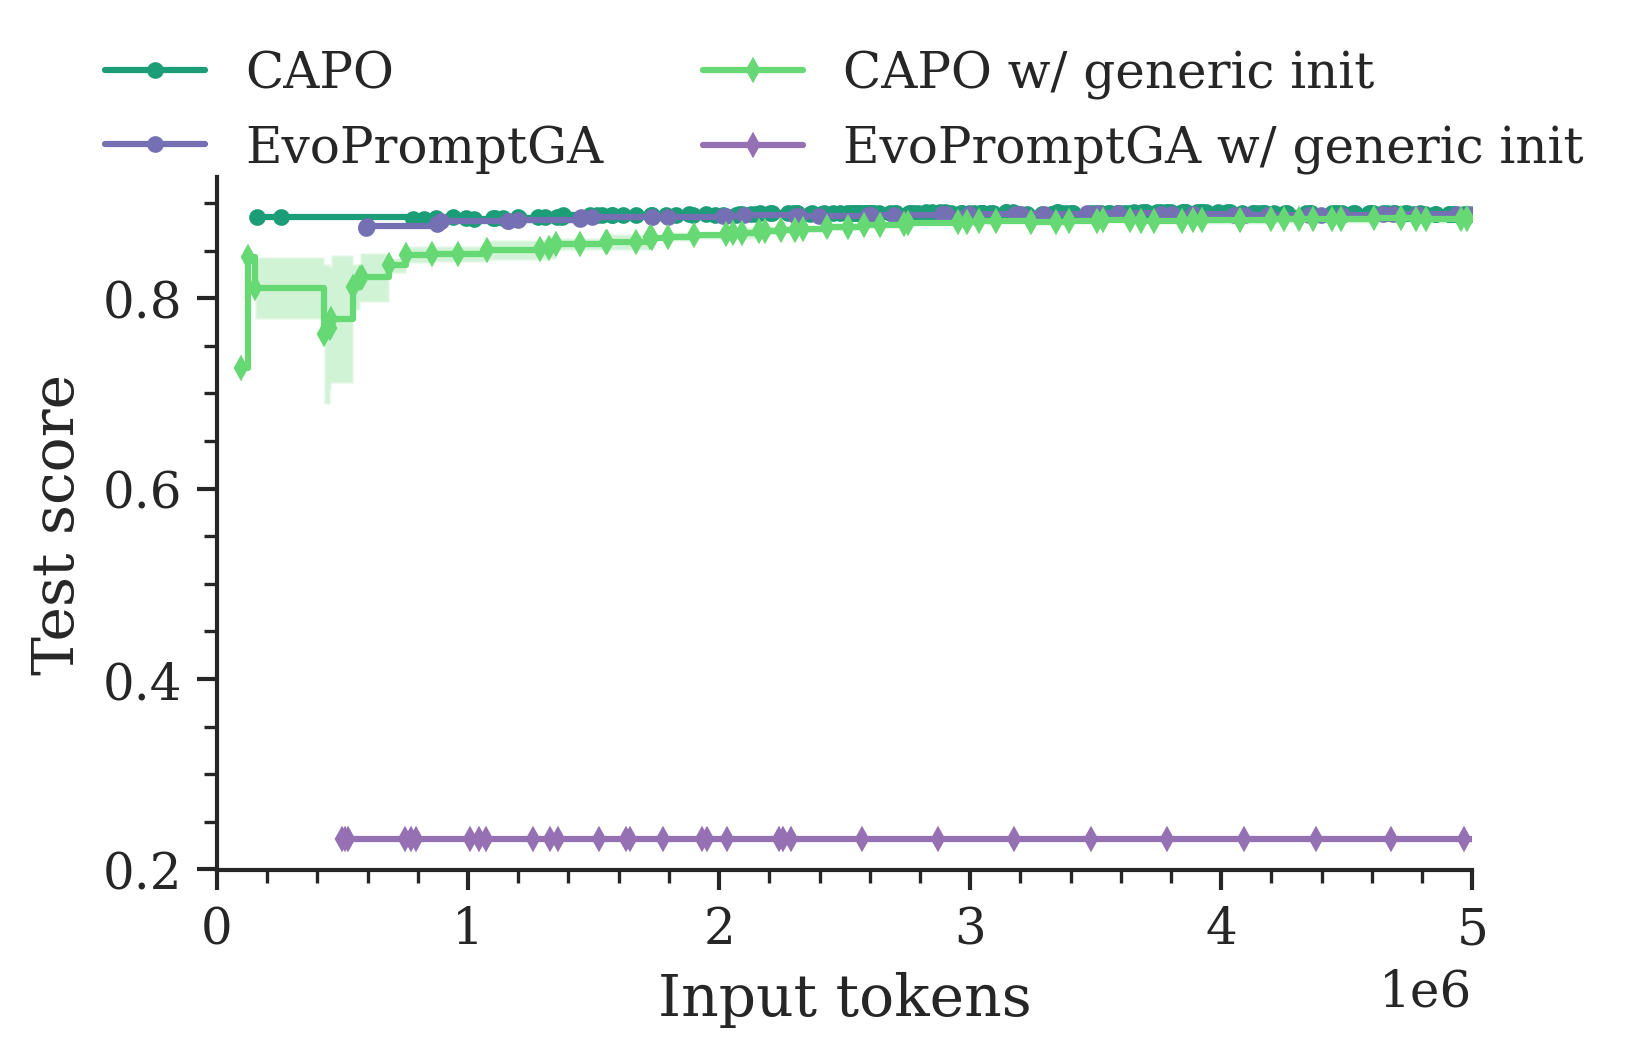
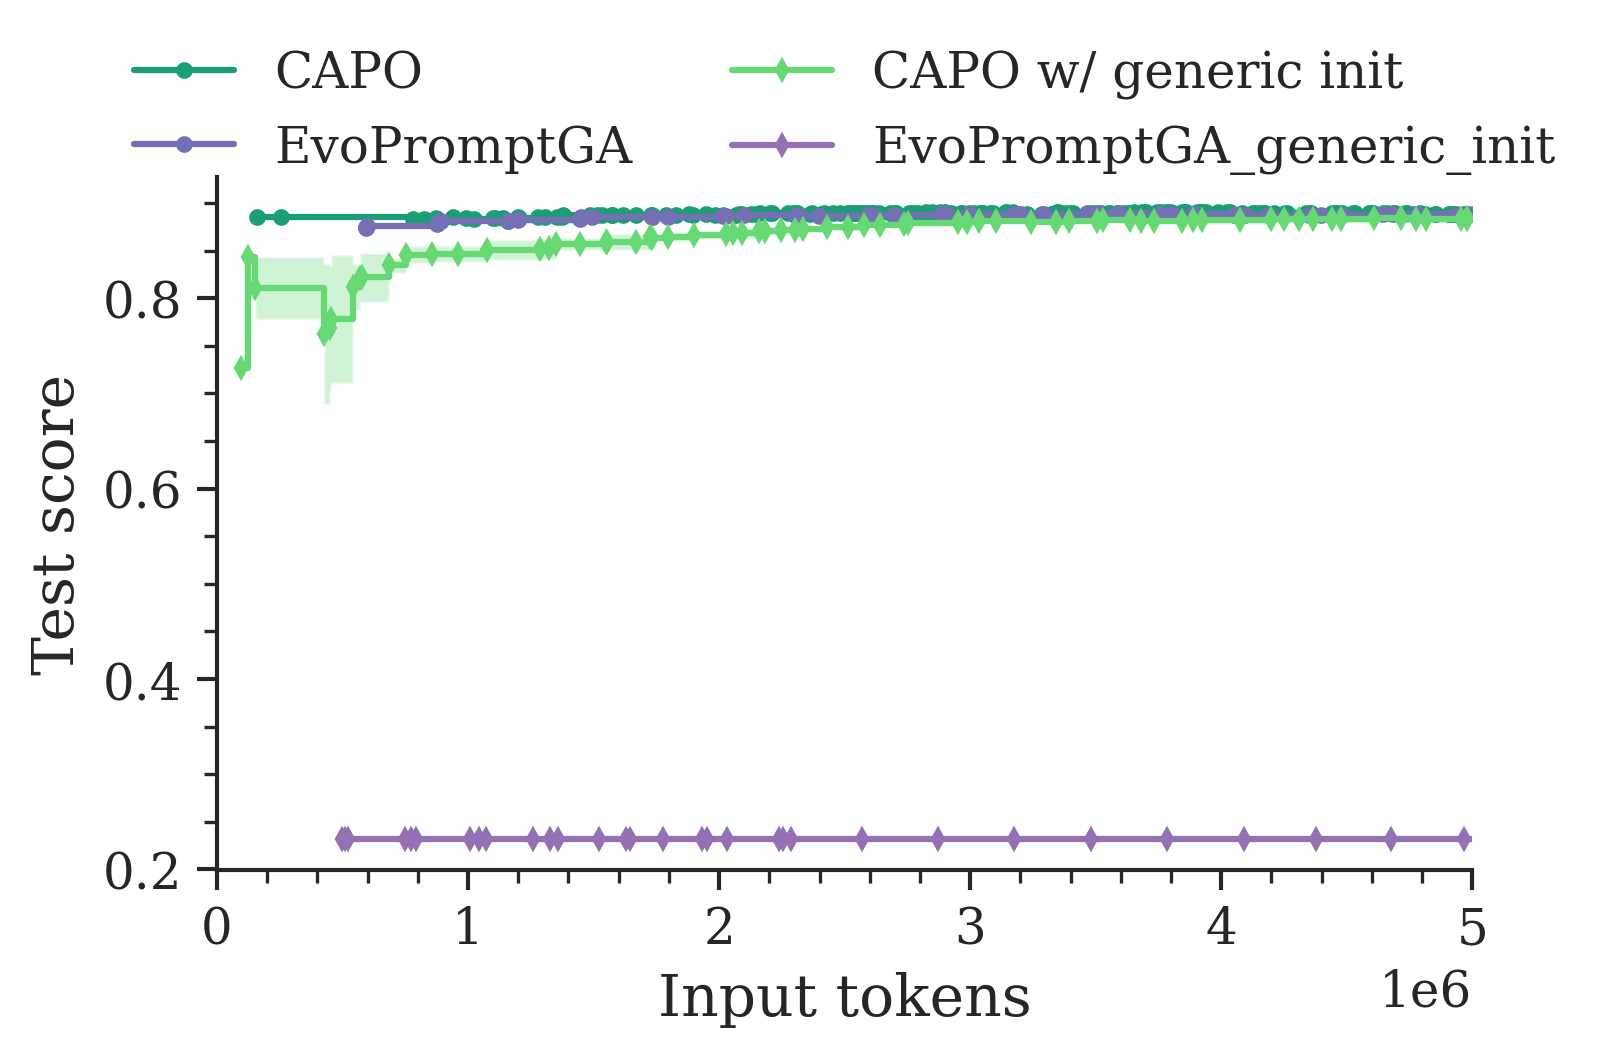
add new plots for creation

diff --git a/scripts/plot_creation.py b/scripts/plot_creation.py
@@ -90,7 +90,7 @@ if __name__ == "__main__":
             "sst-5",
             "mistral",
             "CAPO",
-            x_col="input_tokens_cum",
+            x_col="step",
             score_col="test_score",
             path_prefix=".",
             seeds=[42],
@@ -98,7 +98,7 @@ if __name__ == "__main__":
         )
         fig.savefig("./results/plots/sst-5_mistral_42_population_members.png", bbox_inches="tight")
 
-        plot_population_members(
+        fig = plot_population_members(
             "subj",
             "qwen",
             "CAPO",
@@ -320,31 +320,6 @@ if __name__ == "__main__":
             fig = plot_population_scores_comparison(
                 dataset,
                 "llama",
-                ["CAPO", "EvoPromptGA", "CAPO_generic_init", "EvoPromptGA_generic_init"],
-                labels=[
-                    "CAPO",
-                    "EvoPromptGA",
-                    "CAPO w/ generic init",
-                    "EvoPromptGA w/ generic init",
-                ],
-                path_prefix=".",
-                plot_stddev=True,
-                plot_seeds=False,
-                x_col="input_tokens_cum",
-                colors=colors,
-                markers=markers,
-                ncols=2,
-                figsize=(5.4, 3),
-            )
-
-            fig.savefig(
-                f"./results/plots/ablation_generic_init_{dataset}.png",
-                bbox_inches="tight",
-            )
-
-            fig = plot_population_scores_comparison(
-                dataset,
-                "llama",
                 ["nan", "EvoPromptGA", "nan", "EvoPromptGA_TD"],
                 path_prefix=".",
                 plot_stddev=True,
@@ -360,3 +335,78 @@ if __name__ == "__main__":
                 f"./results/plots/ablation_evo_td_{dataset}.png",
                 bbox_inches="tight",
             )
+
+        fig = plot_population_scores_comparison(
+            "agnews",
+            "llama",
+            ["CAPO", "EvoPromptGA", "CAPO_generic_init", "EvoPromptGA_generic_init"],
+            labels=[
+                "CAPO",
+                "EvoPromptGA",
+                "CAPO w/ generic init",
+                "EvoPromptGA_generic_init",
+            ],
+            path_prefix=".",
+            plot_stddev=True,
+            plot_seeds=False,
+            x_col="input_tokens_cum",
+            colors=colors,
+            markers=markers,
+            ncols=2,
+            figsize=(5.4, 3.6),
+        )
+
+        fig.savefig(
+            "./results/plots/ablation_generic_init_agnews_main_pre.png",
+            bbox_inches="tight",
+        )
+
+        fig = plot_population_scores_comparison(
+            "agnews",
+            "llama",
+            ["CAPO", "EvoPromptGA", "CAPO_generic_init", "EvoPromptGA_generic_init"],
+            labels=[
+                "CAPO",
+                "EvoPromptGA",
+                "CAPO w/ generic init",
+                "EvoPromptGA_generic_init",
+            ],
+            path_prefix=".",
+            plot_stddev=True,
+            plot_seeds=False,
+            x_col="input_tokens_cum",
+            colors=colors,
+            markers=markers,
+            ncols=2,
+            figsize=(5.4, 3),
+        )
+
+        fig.savefig(
+            "./results/plots/ablation_generic_init_agnews.png",
+            bbox_inches="tight",
+        )
+
+        fig = plot_population_scores_comparison(
+            "gsm8k",
+            "llama",
+            ["CAPO", "EvoPromptGA", "CAPO_generic_init", "EvoPromptGA_generic_init"],
+            labels=[
+                "CAPO",
+                "EvoPromptGA",
+                "CAPO w/ generic init",
+                "EvoPromptGA w/ generic init",
+            ],
+            path_prefix=".",
+            plot_stddev=True,
+            plot_seeds=False,
+            x_col="input_tokens_cum",
+            colors=colors,
+            markers=markers,
+            ncols=2,
+            figsize=(5.4, 3),
+        )
+
+        fig.savefig(
+            "./results/plots/ablation_generic_init_gsm8k.png",
+            bbox_inches="tight",
+        )
